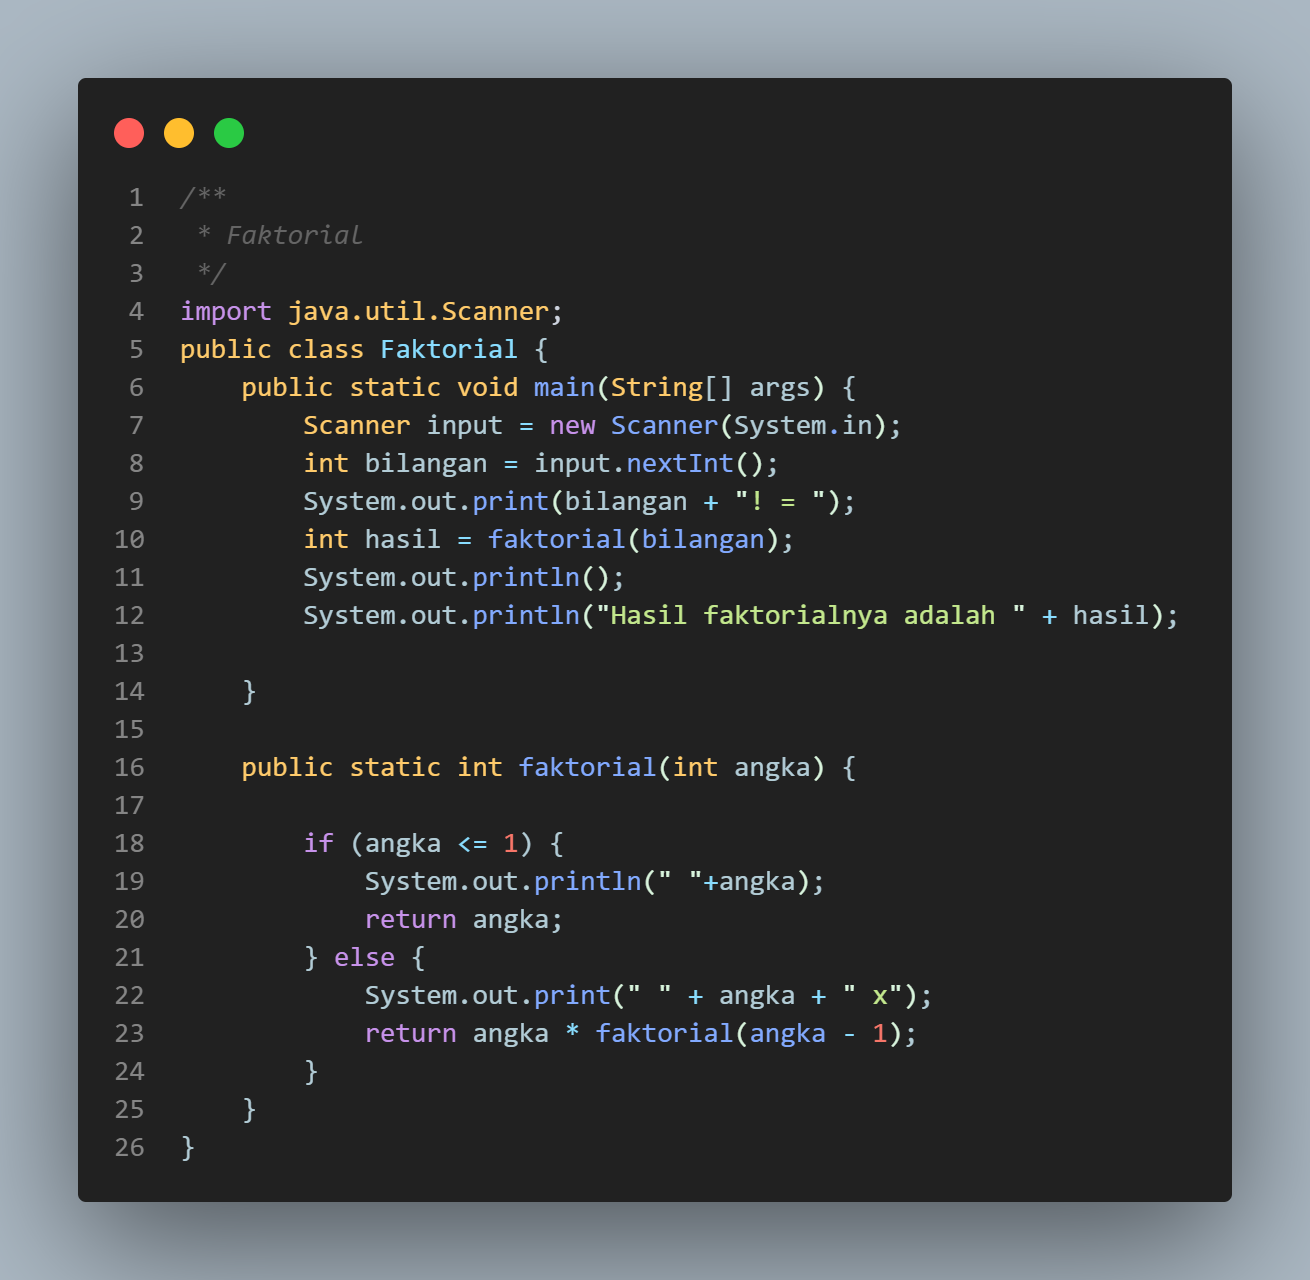
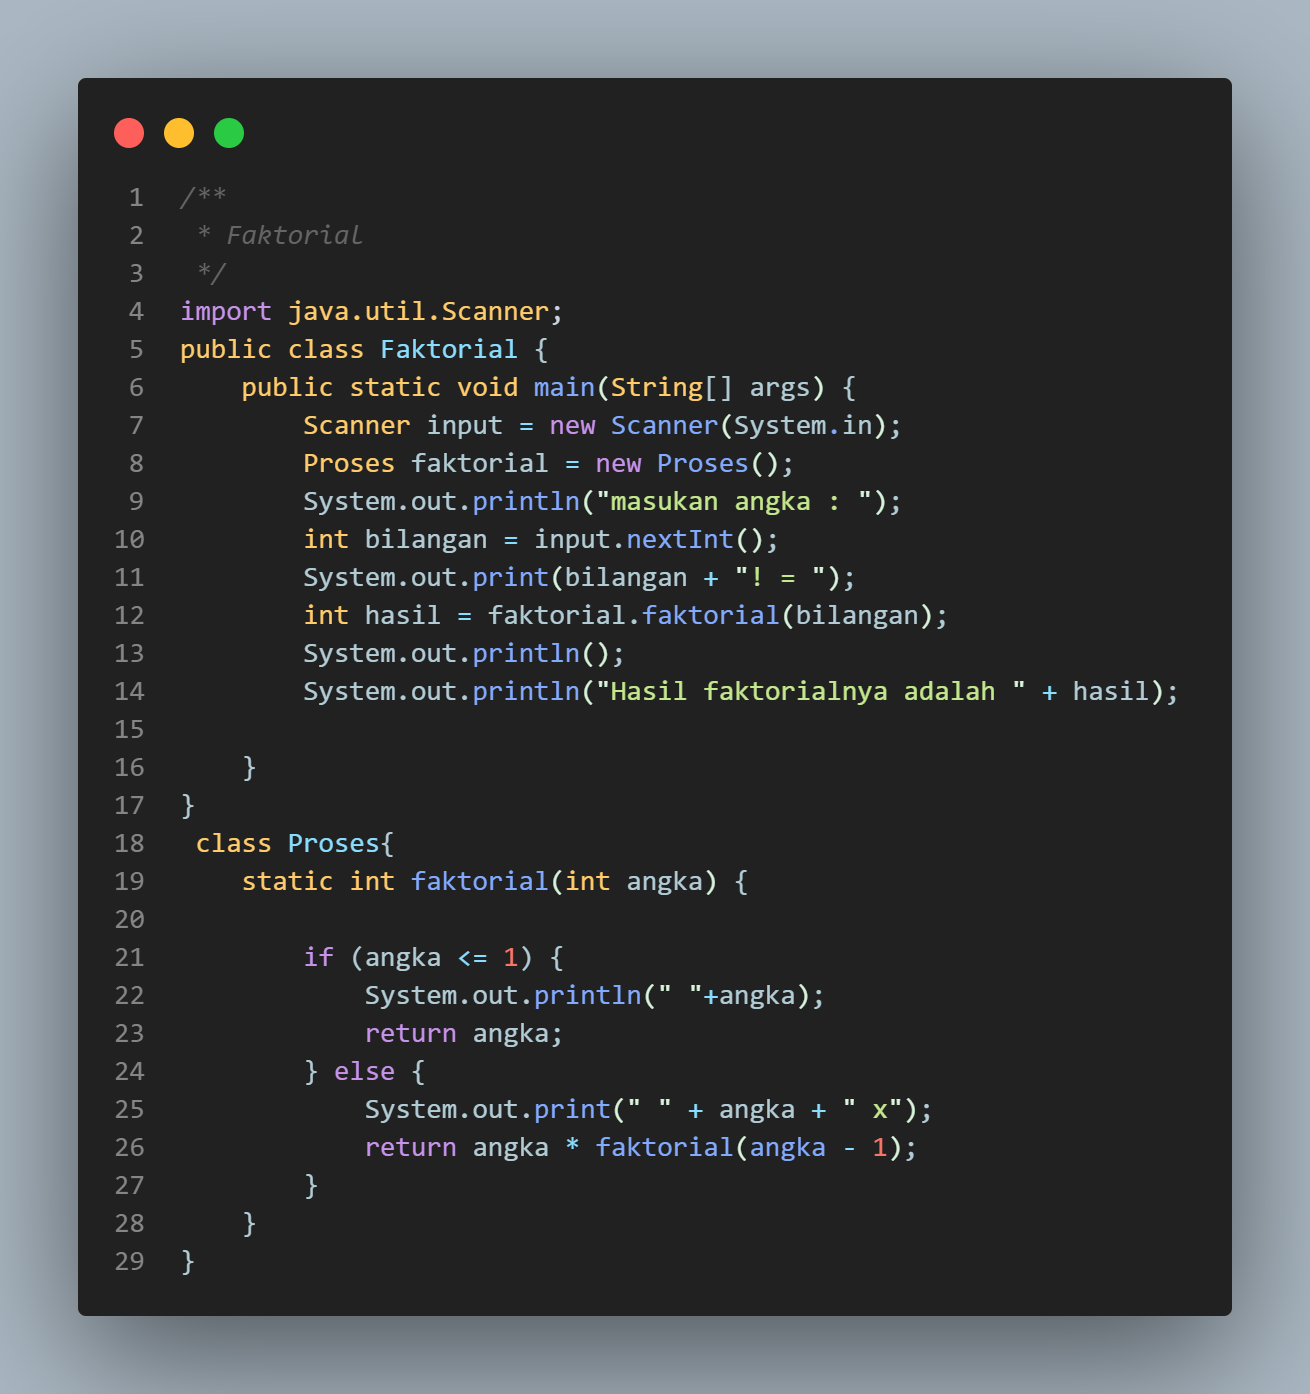
revisi renaldy

diff --git a/Faktorial.java b/Faktorial.java
@@ -5,15 +5,18 @@ import java.util.Scanner;
 public class Faktorial {
     public static void main(String[] args) {
         Scanner input = new Scanner(System.in);
+        Proses faktorial = new Proses();
+        System.out.println("masukan angka : ");
         int bilangan = input.nextInt();
         System.out.print(bilangan + "! = ");
-        int hasil = faktorial(bilangan);
+        int hasil = faktorial.faktorial(bilangan);
         System.out.println();
         System.out.println("Hasil faktorialnya adalah " + hasil);
 
     }
-
-    public static int faktorial(int angka) {
+}
+ class Proses{
+    static int faktorial(int angka) {
         
         if (angka <= 1) {
             System.out.println(" "+angka);
